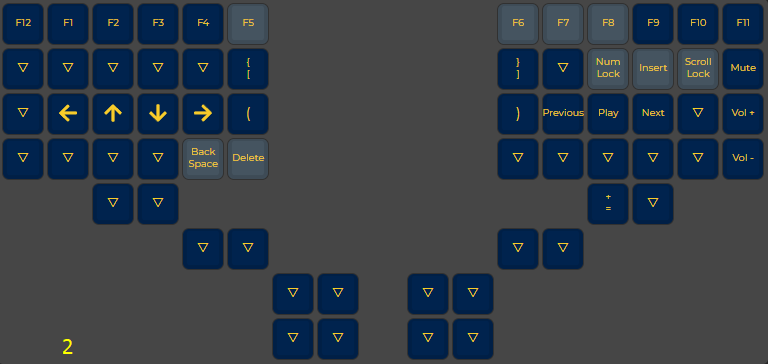
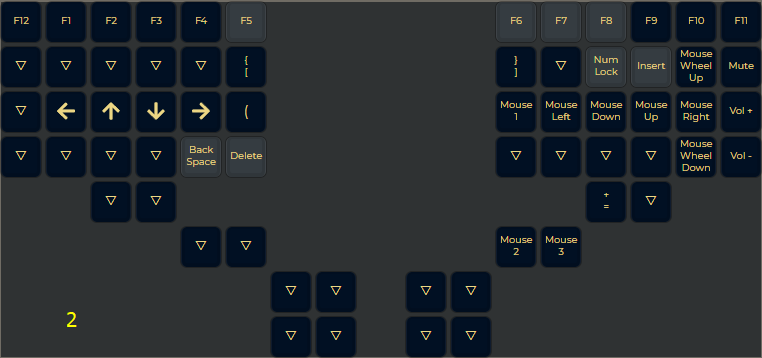
:mouse: Add moues feature

diff --git a/keymap.c b/keymap.c
@@ -60,15 +60,15 @@ const uint16_t PROGMEM keymaps[][MATRIX_ROWS][MATRIX_COLS] = {
   //┌────────┬────────┬────────┬────────┬────────┬────────┐                          ┌────────┬────────┬────────┬────────┬────────┬────────┐
      KC_F12,   KC_F1,   KC_F2,   KC_F3,   KC_F4,   KC_F5,                              KC_F6,   KC_F7,   KC_F8,   KC_F9,   KC_F10,  KC_F11,
   //├────────┼────────┼────────┼────────┼────────┼────────┤                          ├────────┼────────┼────────┼────────┼────────┼────────┤
-     _______, _______, _______, _______, _______, KC_LBRC,                            KC_RBRC, _______,  KC_NUM,  KC_INS, KC_SCRL, KC_MUTE,
+     _______, _______, _______, _______, _______, KC_LBRC,                            KC_RBRC, _______,  KC_NUM,  KC_INS, KC_WH_U, KC_MUTE,
   //├────────┼────────┼────────┼────────┼────────┼────────┤                          ├────────┼────────┼────────┼────────┼────────┼────────┤
-     _______, KC_LEFT,  KC_UP,  KC_DOWN, KC_RGHT, KC_LPRN,                            KC_RPRN, KC_MPRV, KC_MPLY, KC_MNXT, _______, KC_VOLU,
+     _______, KC_LEFT,  KC_UP,  KC_DOWN, KC_RGHT, KC_LPRN,                            KC_BTN1, KC_MS_L, KC_MS_D, KC_MS_U, KC_MS_R, KC_VOLU,
   //├────────┼────────┼────────┼────────┼────────┼────────┤                          ┌────────┼────────┼────────┼────────┼────────┼────────┤
-     _______, _______, _______, _______, KC_BSPC, KC_DEL,                             _______, _______, _______, _______, _______, KC_VOLD,
+     _______, _______, _______, _______, KC_BSPC, KC_DEL,                             _______, _______, _______, _______, KC_WH_D, KC_VOLD,
   //└────────┴────────┼────────┼────────┼────────┼────────┘                          └────────┴────────┼────────┼────────┼────────┼────────┘
                        _______, _______,                                                                KC_EQL,  _______,
   //                  └────────┴────────┘        ┌────────┬────────┐        ┌────────┬────────┐        └────────┴────────┘
-                                                  _______, _______,          _______, _______,
+                                                  _______, _______,          KC_BTN2, KC_BTN3,
   //                                             ├────────┼────────┤        ├────────┼────────┤
                                                   _______, _______,          _______, _______,
   //                                             ├────────┼────────┤        ├────────┼────────┤
